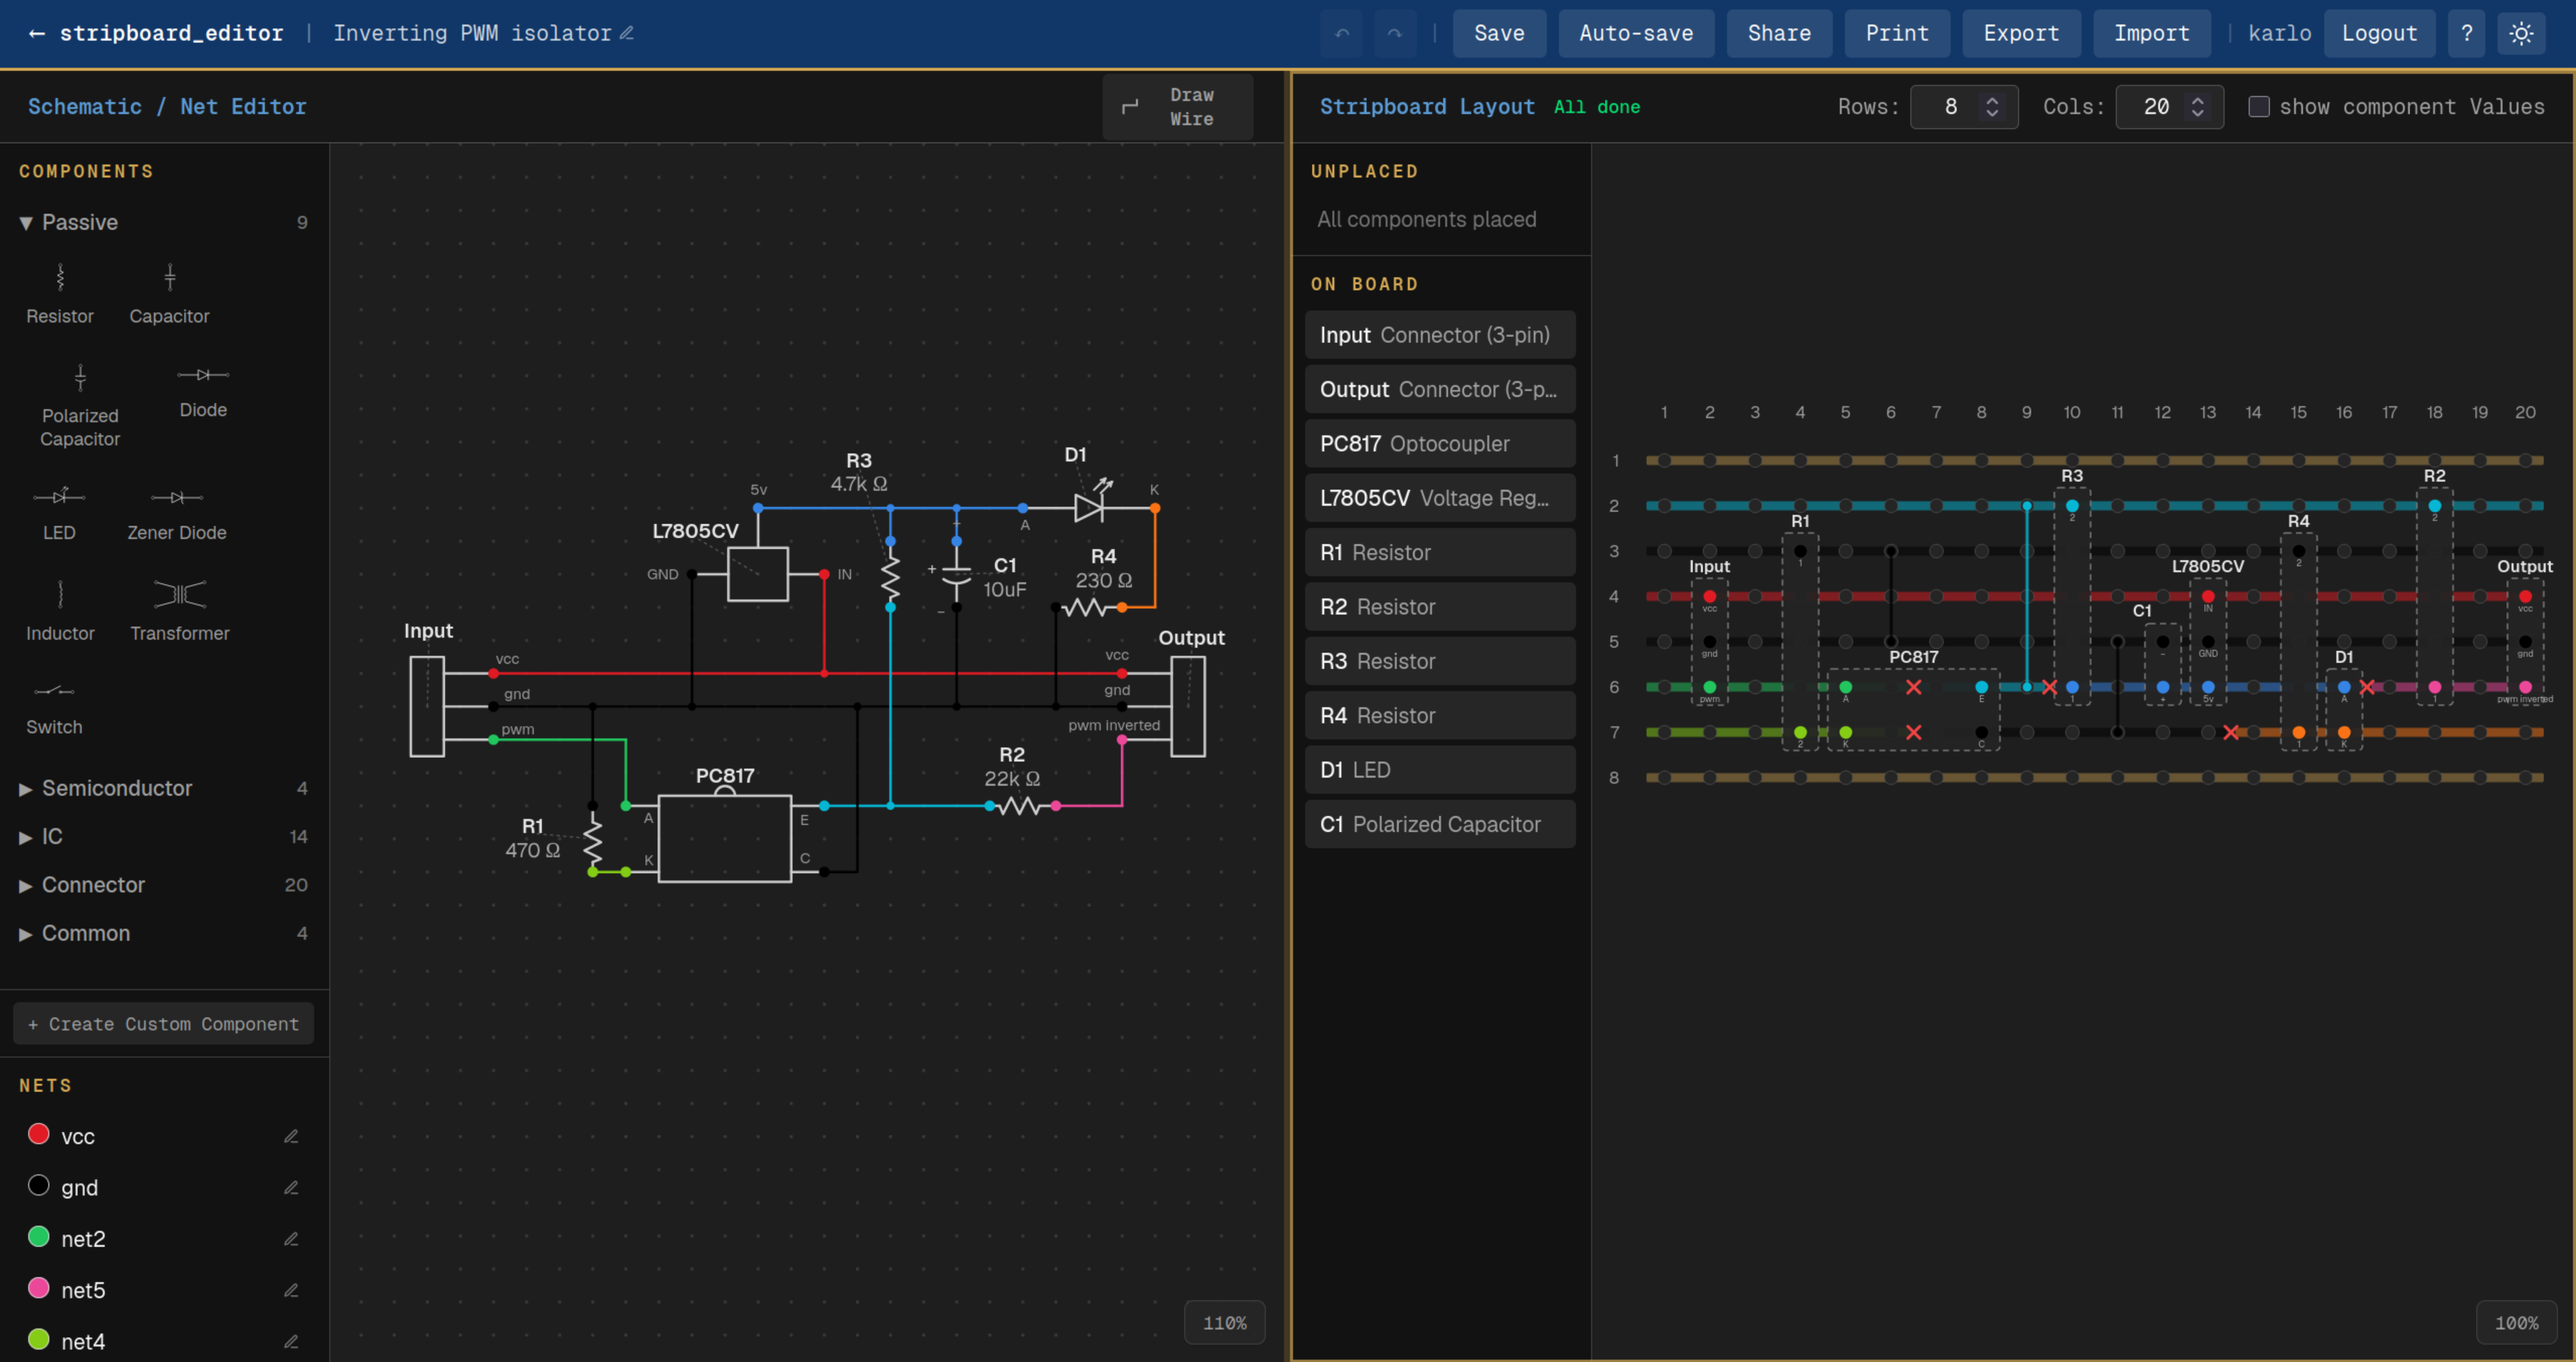
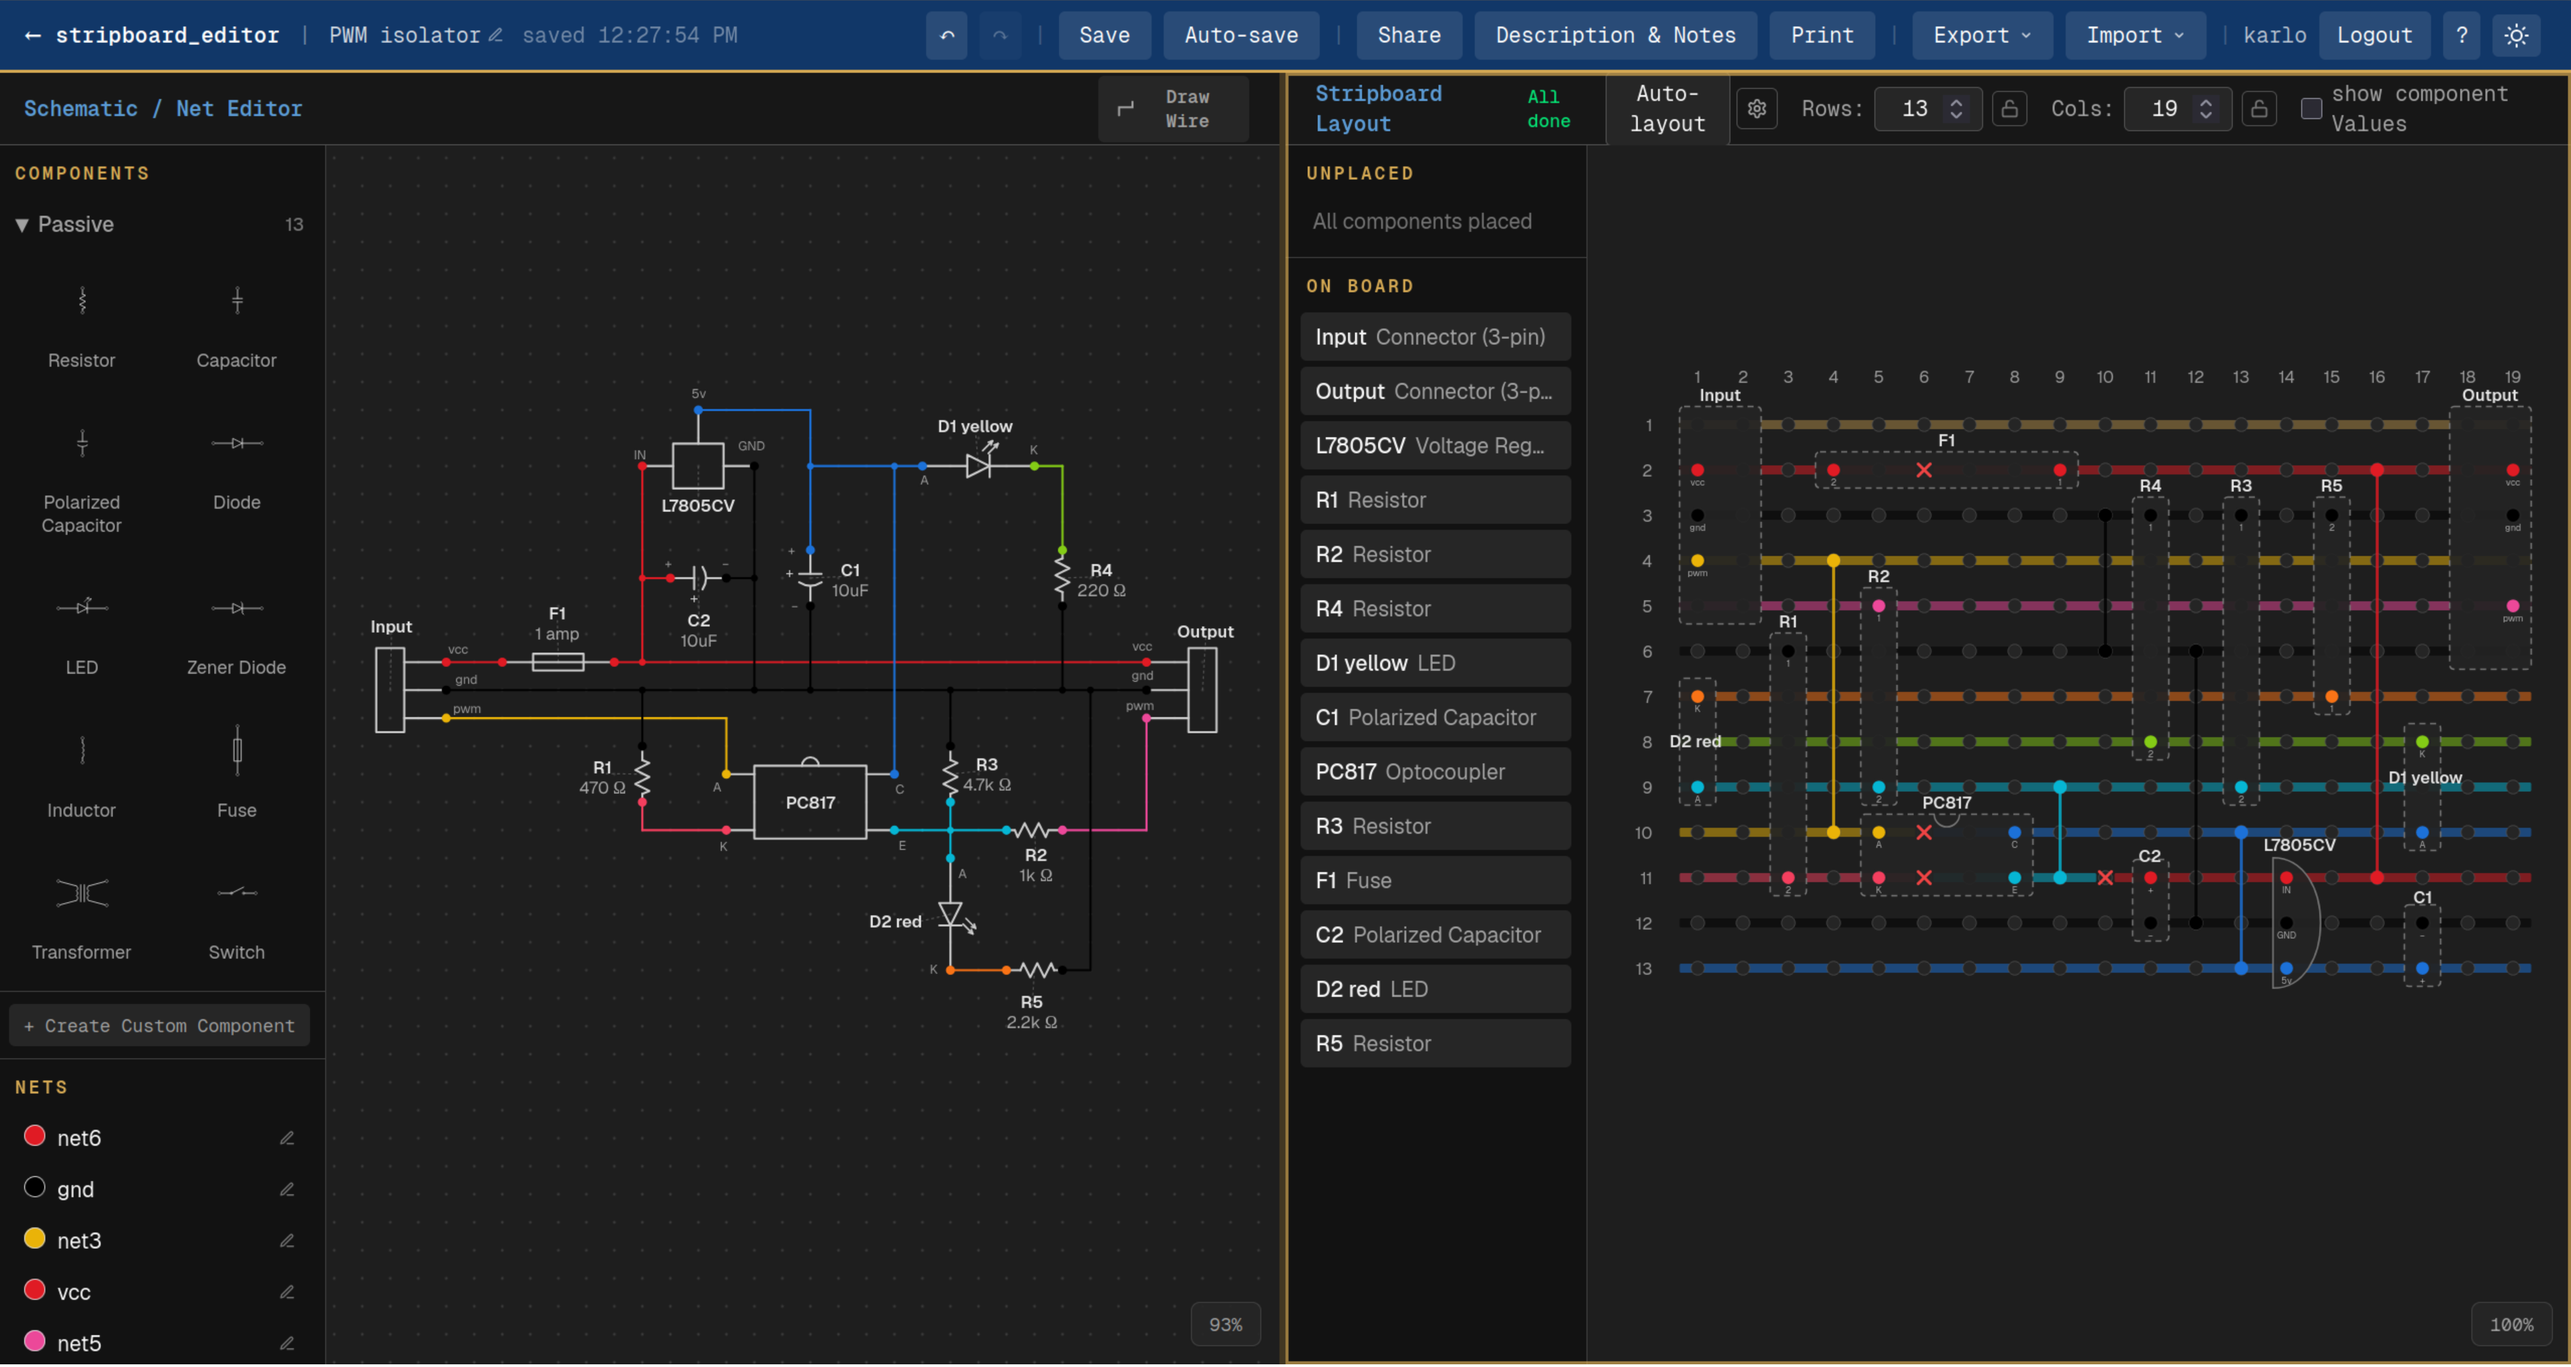
home page redesign adding a few pictures of a real build

diff --git a/src/frontend/app/HomeClient.tsx b/src/frontend/app/HomeClient.tsx
@@ -76,6 +76,14 @@ export default function HomeClient({
     { title: "Print and build", body: "Print a 1:1 template, lay it on the board, and push parts straight through the paper." },
   ];
 
+  // Photos of the demo circuit above, built on real stripboard.
+  const buildShots = [
+    { src: "/print-out-with-board.jpg", caption: "print at 1:1", alt: "Printed placement and cut sheets with a bare stripboard laid on top" },
+    { src: "/drilled-holes.jpg", caption: "cut the tracks", alt: "Stripboard with copper tracks cut at the marked holes" },
+    { src: "/board-partly-assembled-front.jpg", caption: "push parts through", alt: "Printed template taped to the board with the first components pushed through the paper" },
+    { src: "/board-fully-assembled-back.jpg", caption: "solder the joints", alt: "Solder side of the finished stripboard" },
+  ];
+
   const features = [
     "Automatic layout router: places every part, sizes the board, and works out the cuts and link wires",
     "Schematic editor with a standard symbol library and automatic net detection",
@@ -202,7 +210,7 @@ export default function HomeClient({
         {!user && (<>
         {/* Editor screenshot */}
         <div className="mb-12">
-          <Link href="/view/2b08cf25-5e23-4952-8df3-0d0fd385b58e" className="block group">
+          <Link href="/view/85394a12-c5f3-4aff-a874-55837bbf4a80" className="block group">
             <img
               src="/demo-circuit.png"
               alt="Stripboard Editor with schematic and board layout side by side"
@@ -213,7 +221,15 @@ export default function HomeClient({
               alt="Stripboard Editor with schematic and board layout side by side"
               className="rounded-lg border-2 border-neutral-200 dark:border-neutral-700 group-hover:border-[var(--copper)] dark:group-hover:border-[var(--copper)] shadow-sm dark:shadow-neutral-900/30 w-full transition-colors hidden dark:block"
             />
-            <p className="font-mono text-xs text-neutral-500 dark:text-neutral-400 mt-2 text-center">click to open this demo circuit</p>
+            <div className="flex flex-col items-center gap-2 mt-3">
+              <img
+                src="/board-fully-assembled-front.jpg"
+                alt="The demo circuit built on stripboard"
+                loading="lazy"
+                className="w-56 sm:w-72 max-w-full rounded-lg border-2 border-neutral-200 dark:border-neutral-700 group-hover:border-[var(--copper)] dark:group-hover:border-[var(--copper)] shadow-sm dark:shadow-neutral-900/30 transition-colors"
+              />
+              <p className="font-mono text-xs text-neutral-500 dark:text-neutral-400">click to open this demo circuit</p>
+            </div>
           </Link>
         </div>
 
@@ -287,6 +303,36 @@ export default function HomeClient({
             className="rounded-lg border-2 border-neutral-200 dark:border-neutral-700 shadow-sm dark:shadow-neutral-900/30 w-full"
           />
           <p className="font-mono text-xs text-neutral-500 dark:text-neutral-400 mt-2 text-center">lay it on the board, push parts through the paper. mirrored cut guide + BOM optional.</p>
+
+          {/* The same circuit, built from that printout */}
+          <div className="mt-6 grid grid-cols-2 gap-3">
+            {buildShots.map((shot) => (
+              <figure key={shot.src}>
+                <img
+                  src={shot.src}
+                  alt={shot.alt}
+                  loading="lazy"
+                  decoding="async"
+                  className="w-full aspect-[4/3] object-cover rounded-lg border border-neutral-200 dark:border-neutral-700"
+                />
+                <figcaption className="font-mono text-[11px] text-neutral-500 dark:text-neutral-400 mt-1.5 text-center">
+                  {shot.caption}
+                </figcaption>
+              </figure>
+            ))}
+          </div>
+          <figure className="mt-3">
+            <img
+              src="/board-fully-assembled-front.jpg"
+              alt="Finished stripboard with every component soldered in place"
+              loading="lazy"
+              decoding="async"
+              className="w-full aspect-[3/2] object-cover rounded-lg border border-neutral-200 dark:border-neutral-700"
+            />
+            <figcaption className="font-mono text-xs text-neutral-500 dark:text-neutral-400 mt-2 text-center">
+              done. the demo circuit above.
+            </figcaption>
+          </figure>
         </div>
 
 

diff --git a/src/frontend/app/layout.tsx b/src/frontend/app/layout.tsx
@@ -58,8 +58,8 @@ export const metadata: Metadata = {
     images: [
       {
         url: "/demo-circuit.png",
-        width: 1920,
-        height: 963,
+        width: 3831,
+        height: 2037,
         alt: "Stripboard Editor showing schematic and board layout side by side",
       },
     ],
